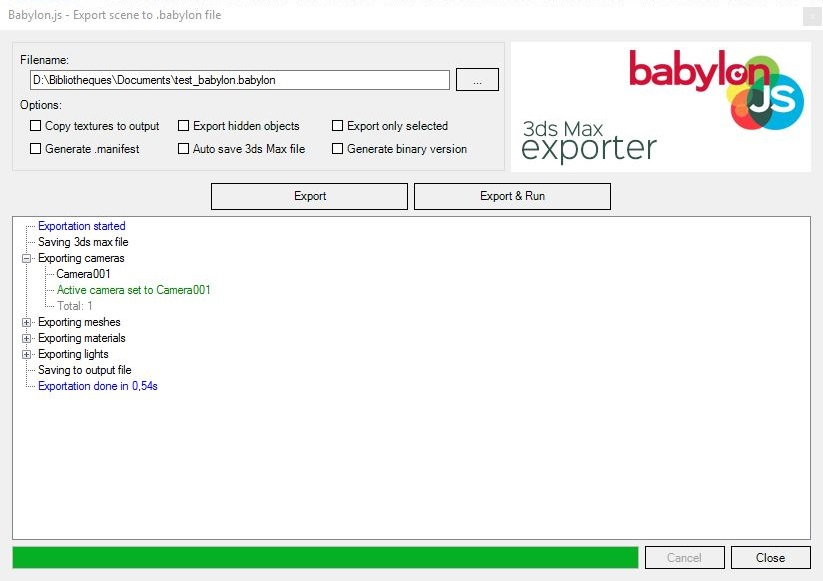
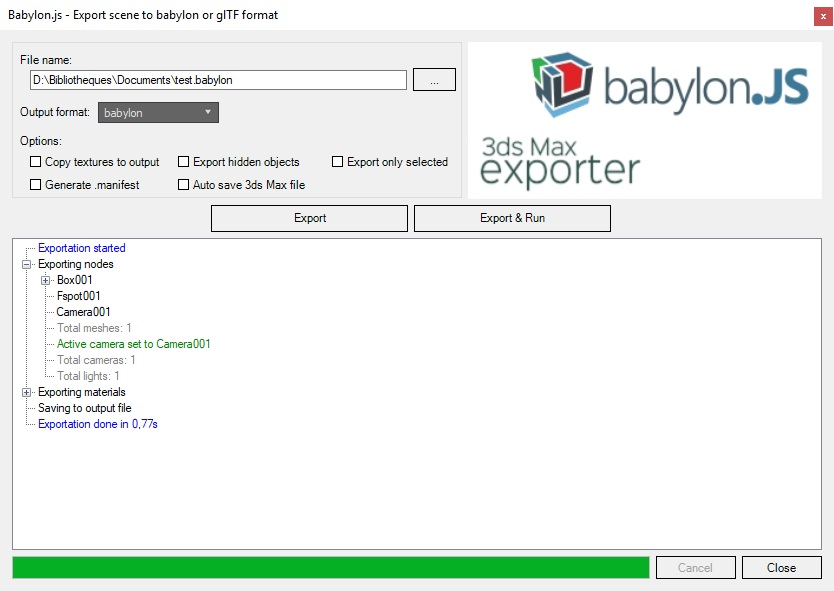
Update 3ds max exporter to babylonn with last features Add 3ds max to glTF entry Fix imported features from glTF

diff --git a/content/exporters/3DSMax/3DSMAX_to_glTF.md b/content/exporters/3DSMax/3DSMAX_to_glTF.md
@@ -1,0 +1,97 @@
+# How to export 3DS MAX scene as glTF
+
+With the babylon plugin for 3DS MAX, you can also export your project to glTF 2.0 format (https://github.com/KhronosGroup/glTF/).
+
+All you need to do is choose __gltf__ as __Output format__.
+
+![glTF export window](/img/exporters/3DSMax/14_gltf_export_window.jpg)
+
+The plugin exports to babylon format before converting it to glTF.
+The notable exported files are the .gltf and .bin ones.
+
+To export to a single .glb file, choose __glb__ as __Output format__.
+
+#  Features  #
+
+## Exported features
+
+Since the plugin first exports to babylon then converts it to glTF, glTF features are a subset of the [babylon ones](https://doc.babylonjs.com/exporters/3dsmax#features).
+
+* _Cameras_
+    * zfar
+    * znear
+    * yfov (Perspective camera)
+    * Position / rotation
+    * Animations: Position
+
+* _Meshes_
+    * Geometry: position, normal, color, texture coordinates (2 channels)
+    * Skin
+    * Instances
+    * Morph targets
+    * Position / rotation / scaling
+    * Animations: bones, morph weights
+
+* _Nodes_
+    * Position / rotation / scaling
+    * Animations: Position, scaling, rotation
+
+* _Materials_
+    * Base color factor and texture
+    * Metallic and roughness factors
+    * Combined MetallicRoughness texture
+    * Multi-materials
+
+* _Textures_
+    * Wrap mode (Clamp, mirror, repeat)
+
+* Hierarchies are exported
+
+## Conversion Standard to PBR materials
+
+The plugin uses core specifications of glTF, i.e. without any extension. This implies that only PBR materials are exported.
+
+To support compatibility with standard materials, they are converted to PBR materials based on their diffuse, specular, opacity and glossiness.
+
+[The complete algorithm is detailed here](https://github.com/bghgary/glTF/blob/gh-pages/convert-between-workflows-bjs/js/babylon.pbrUtilities.js)
+
+[A demo is available here](https://bghgary.github.io/glTF/convert-between-workflows-bjs/)
+
+Note that the conversion duration scales with images size and may have a severe impact on export duration.
+
+## PBR materials
+
+PBR materials as defined in glTF use a combined map of metallic and roughness, while in 3DS MAX those data are split into 2 textures.
+
+Thus, a combined map is created when exporting Physical materials. Its name starts with the material's one and is exported to the same folder as other outputs.
+
+![glTF metallic roughness combined](/img/exporters/3DSMax/15_gltf_metallic_roughness_combined.jpg)
+
+In 3DS MAX, metallic and roughness maps are black and white images (R=G=B).
+For glTF, metallic is stored in blue channel, roughness in green.
+
+Note that the duration of this process scales with images size and may have a severe impact on export duration.
+
+# What you should know
+
+## Babylon properties
+
+Most babylon properties are not used when exporting to glTF format. The only one which matter is:
+* __Do not export__: Self-explanatory, this object/light/camera won’t be exported. False by default.
+
+## Lights
+
+Lights are not supported in glTF 2.0. An empty node is exported in place of light only when it is relevant to do so (when a light has a mesh or a camera as descendant).
+
+## Left to right handed coordinate system
+
+As glTF export relies on conversion from babylon, the coordinate system is changing from left (babylon) to right handed (glTF).
+To do it simply, a root node named "root" is added to the scene. All nodes are set as descendants of this root node. It has specific rotation and scaling to do the trick.
+
+## Consideration about skins
+
+In glTF, a skin is binded to a node. The skeleton (root bone) of a skin should be positioned at origin, without rotation or scaling. The node to which is applied the skin is responsible of its transformation (translation, rotation, scale).
+
+#  Try it out!  #
+
+Export your own scene from 3DS MAX to gltf format and load it into the [Babylon Sandbox](http://sandbox.babylonjs.com/). Or load them via scripts using the [babylon loader](https://doc.babylonjs.com/extensions/gltf).

diff --git a/content/exporters/3DSMax/3DSMax.md b/content/exporters/3DSMax/3DSMax.md
@@ -8,7 +8,7 @@ The plugin is designed for 3DS Max 2015 or later. To download it, go to the Gith
 
 ![github](/img/exporters/3DSMax/1_github.jpg)
 
-In this folder, you can find the source code of the exporter if you want to update it, and a zip file _Max2Babylon-XX.zip_ (where XX is the exporter version, currently 0.10.0). Click on the zip file, and click on the _Download_ button. 
+In this folder, you can find the source code of the exporter if you want to update it, and a zip file _Max2Babylon-XX.zip_ (where XX is the exporter version, currently 0.20.0). Click on the zip file, and click on the _Download_ button. 
 
 ![github download](/img/exporters/3DSMax/2_github_dl.jpg)
 
@@ -40,7 +40,7 @@ Congratulations! You did it!
     * Collisions (*)
     * Position
     * Target / Rotation
-    * Animations: Position, Fov
+    * Animations: Position, Target, Fov
 
 * _Lights_
     * Omni / spot / directional / Ambient(Hemispheric)
@@ -50,7 +50,7 @@ Congratulations! You did it!
     * Intensity
     * Diffuse
     * Specular
-    * Animations: Position, direction, intensity
+    * Animations: Position, direction, intensity, diffuse
 
 * _Meshes_
     * Visibility
@@ -61,7 +61,9 @@ Congratulations! You did it!
     * Position / rotation / scaling
     * Smoothing groups
     * Skin
-    * Geometry (position, normal, texture coordinates (2 channels))
+    * Geometry (position, normal, color, texture coordinates (2 channels))
+    * Instances
+    * Morph targets
     * Show Bounding box and submeshes bounding boxes (*)
     * Animations: Position, scaling, rotation, visibility, bones
 
@@ -76,6 +78,7 @@ Congratulations! You did it!
     * Opacity texture
     * Reflection texture
     * Fresnel for diffuse, emissive, opacity and reflection
+    * Physical materials (PBR)
 
 * _Textures_
     * UV offset / scaling / angle
@@ -190,6 +193,11 @@ Animations are exported by sampling keyframes which can generate a lot of data. 
 
 To ensure that bones are correctly exported, you have to use the Skin modifier. Skin should be positioned at origin. [More info here](http://doc.babylonjs.com/exporters/Bones_influences_per_vertex)
 
+## Physical materials
+
+In 3DS MAX, metallic and roughness are split in 2 textures. When exporting to babylon, those maps are combined together.
+The process is mimic from glTF. [More info here](https://doc.babylonjs.com/exporters/3DSMax_to_glTF#pbr-materials)
+
 ## Texture transparency 
 
 Babylon supports PNG, DDS and TGA formats for texture transparency. You can choose to include the transparency directly in your diffuse texture, or create an opacity map. Here are the options to check if you want to have transparency on your diffuse texture: 
@@ -204,6 +212,6 @@ First, create the model you will be using in the Key class. I choose to create a
 
 ![key](/img/exporters/3DSMax/12_key.jpg)
 
-The only thing left to do is to export this key as a Babylon file, and we’re done with 3DS Max. As the animation is going from frame 0 to frame 80, the Babylon properties for this file have to be updated. And we’re done! 
+The only thing left to do is to export this key as a Babylon file, and we’re done with 3DS Max. As the animation is going from frame 0 to frame 80, the Babylon properties for this object have to be updated. And we’re done! 
 
 ![animation](/img/exporters/3DSMax/13_animation.jpg)

diff --git a/content/extensions/Loaders/glTF.md b/content/extensions/Loaders/glTF.md
@@ -86,8 +86,6 @@ BABYLON.GLTFFileLoader.HomogeneousCoordinates = true; // false by default
 * Import geometries
     * From binary files
     * From base64 buffers
-* Import lights
-* Import cameras
 * Import and set custom shaders (if no shaders, the Babylon.js default material is applied)
     * Automatically bind attributes
     * Automatically bind matrices
@@ -100,4 +98,4 @@ BABYLON.GLTFFileLoader.HomogeneousCoordinates = true; // false by default
 * Handle dummy nodes (empty nodes)
 
 ## To improve
-* Test on more models
+* Test on more models. You can experiment your own models using the [3DS MAX exporter to glTF format](https://doc.babylonjs.com/exporters/3DSMax_to_glTF).
